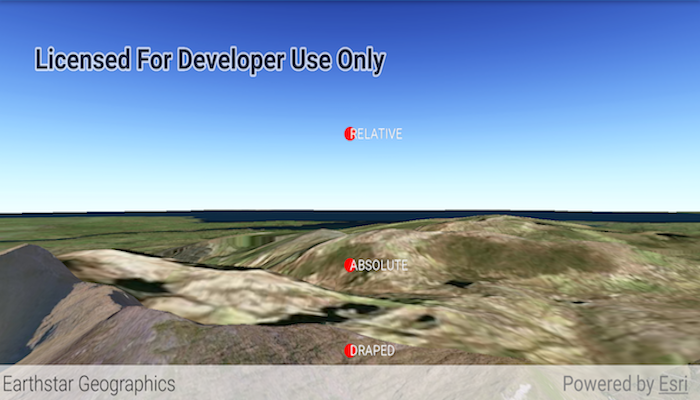
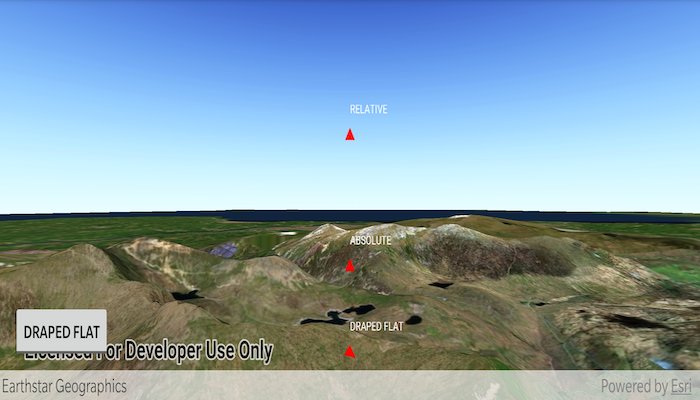
Trev8939/update surface placement (#676)
* upgrade toolkit to 100.6.1

* update sample for new surface placement api

* PR fixes

* fix metadata whitespace

diff --git a/java/surface-placement/src/main/java/com/esri/arcgisruntime/sample/surfaceplacement/MainActivity.java b/java/surface-placement/src/main/java/com/esri/arcgisruntime/sample/surfaceplacement/MainActivity.java
@@ -16,8 +16,11 @@
 
 package com.esri.arcgisruntime.sample.surfaceplacement;
 
+import android.graphics.Color;
 import android.os.Bundle;
+import android.widget.ToggleButton;
 import androidx.appcompat.app.AppCompatActivity;
+
 import com.esri.arcgisruntime.geometry.Point;
 import com.esri.arcgisruntime.mapping.ArcGISScene;
 import com.esri.arcgisruntime.mapping.ArcGISTiledElevationSource;
@@ -40,76 +43,97 @@ public class MainActivity extends AppCompatActivity {
   protected void onCreate(Bundle savedInstanceState) {
     super.onCreate(savedInstanceState);
     setContentView(R.layout.activity_main);
-    // create SceneView from layout
-    mSceneView = (SceneView) findViewById(R.id.sceneView);
+
+    // create scene view from layout
+    mSceneView = findViewById(R.id.sceneView);
     // create a scene and add a basemap to it
-    ArcGISScene agsScene = new ArcGISScene();
-    agsScene.setBasemap(Basemap.createImagery());
-    mSceneView.setScene(agsScene);
+    ArcGISScene scene = new ArcGISScene();
+    scene.setBasemap(Basemap.createImagery());
+    mSceneView.setScene(scene);
 
     // add base surface for elevation data
     ArcGISTiledElevationSource elevationSource = new ArcGISTiledElevationSource(
-        getResources().getString(R.string.elevation_image_service));
-    agsScene.getBaseSurface().getElevationSources().add(elevationSource);
+        getString(R.string.elevation_image_service));
+    scene.getBaseSurface().getElevationSources().add(elevationSource);
 
     // add a camera and initial camera position
-    Camera camera = new Camera(53.04, -4.04, 1300, 0, 90.0, 0);
+    Camera camera = new Camera(53.05, -4.01, 1115, 299, 88, 0);
     mSceneView.setViewpointCamera(camera);
-
-    // create overlays with elevation modes
-    GraphicsOverlay drapedOverlay = new GraphicsOverlay();
-    drapedOverlay.getSceneProperties().setSurfacePlacement(SurfacePlacement.DRAPED);
-    mSceneView.getGraphicsOverlays().add(drapedOverlay);
-    GraphicsOverlay relativeOverlay = new GraphicsOverlay();
-    relativeOverlay.getSceneProperties().setSurfacePlacement(SurfacePlacement.RELATIVE);
-    mSceneView.getGraphicsOverlays().add(relativeOverlay);
-    GraphicsOverlay absoluteOverlay = new GraphicsOverlay();
-    absoluteOverlay.getSceneProperties().setSurfacePlacement(SurfacePlacement.ABSOLUTE);
-    mSceneView.getGraphicsOverlays().add(absoluteOverlay);
 
     // create point for graphic location
     Point point = new Point(-4.04, 53.06, 1000, camera.getLocation().getSpatialReference());
 
-    // create a red (0xFFFF0000) circle symbol
-    SimpleMarkerSymbol circleSymbol = new SimpleMarkerSymbol(SimpleMarkerSymbol.Style.CIRCLE, 0xFFFF0000, 10);
+    // create a red triangle symbol
+    SimpleMarkerSymbol triangleSymbol = new SimpleMarkerSymbol(SimpleMarkerSymbol.Style.TRIANGLE, Color.RED, 10);
 
-    // create a text symbol for each elevation mode
-    TextSymbol drapedText = new TextSymbol(10, "DRAPED", 0xFFFFFFFF, HorizontalAlignment.LEFT,
+    // create the draped flat overlay
+    GraphicsOverlay drapedFlatOverlay = new GraphicsOverlay();
+    drapedFlatOverlay.getSceneProperties().setSurfacePlacement(SurfacePlacement.DRAPED_FLAT);
+    drapedFlatOverlay.getGraphics().add(new Graphic(point, triangleSymbol));
+    // create a text symbol for elevation mode
+    TextSymbol drapedFlatText = new TextSymbol(10, "DRAPED FLAT", Color.WHITE, HorizontalAlignment.LEFT,
         VerticalAlignment.MIDDLE);
-    TextSymbol relativeText = new TextSymbol(10, "RELATIVE", 0xFFFFFFFF, HorizontalAlignment.LEFT,
-        VerticalAlignment.MIDDLE);
-    TextSymbol absoluteText = new TextSymbol(10, "ABSOLUTE", 0xFFFFFFFF, HorizontalAlignment.LEFT,
-        VerticalAlignment.MIDDLE);
+    drapedFlatText.setOffsetY(20);
+    drapedFlatOverlay.getGraphics().add(new Graphic(point, drapedFlatText));
+    mSceneView.getGraphicsOverlays().add(drapedFlatOverlay);
 
-    // add the point graphic and text graphic to the corresponding graphics
-    // overlay
-    drapedOverlay.getGraphics().add(new Graphic(point, circleSymbol));
-    drapedOverlay.getGraphics().add(new Graphic(point, drapedText));
+    // create the draped billboarded overlay
+    GraphicsOverlay drapedBillboardedOverlay = new GraphicsOverlay();
+    drapedBillboardedOverlay.getSceneProperties().setSurfacePlacement(SurfacePlacement.DRAPED_BILLBOARDED);
+    drapedBillboardedOverlay.getGraphics().add(new Graphic(point, triangleSymbol));
+    // create a text symbol for elevation mode
+    TextSymbol drapedBillboardedText = new TextSymbol(10, "DRAPED BILLBOARDED", Color.WHITE, HorizontalAlignment.LEFT,
+        VerticalAlignment.MIDDLE);
+    drapedBillboardedText.setOffsetY(20);
+    drapedBillboardedOverlay.getGraphics().add(new Graphic(point, drapedBillboardedText));
+    mSceneView.getGraphicsOverlays().add(drapedBillboardedOverlay);
+    drapedBillboardedOverlay.setVisible(false);
 
-    relativeOverlay.getGraphics().add(new Graphic(point, circleSymbol));
+    // create the relative overlay
+    GraphicsOverlay relativeOverlay = new GraphicsOverlay();
+    relativeOverlay.getSceneProperties().setSurfacePlacement(SurfacePlacement.RELATIVE);
+    relativeOverlay.getGraphics().add(new Graphic(point, triangleSymbol));
+    // create a text symbol for elevation mode
+    TextSymbol relativeText = new TextSymbol(10, "RELATIVE", Color.WHITE, HorizontalAlignment.LEFT,
+        VerticalAlignment.MIDDLE);
+    relativeText.setOffsetY(20);
     relativeOverlay.getGraphics().add(new Graphic(point, relativeText));
+    mSceneView.getGraphicsOverlays().add(relativeOverlay);
 
-    absoluteOverlay.getGraphics().add(new Graphic(point, circleSymbol));
+    // create the absolute overlay
+    GraphicsOverlay absoluteOverlay = new GraphicsOverlay();
+    absoluteOverlay.getSceneProperties().setSurfacePlacement(SurfacePlacement.ABSOLUTE);
+    absoluteOverlay.getGraphics().add(new Graphic(point, triangleSymbol));
+    // create a text symbol for elevation mode
+    TextSymbol absoluteText = new TextSymbol(10, "ABSOLUTE", Color.WHITE, HorizontalAlignment.LEFT,
+        VerticalAlignment.MIDDLE);
+    absoluteText.setOffsetY(20);
     absoluteOverlay.getGraphics().add(new Graphic(point, absoluteText));
+    mSceneView.getGraphicsOverlays().add(absoluteOverlay);
+
+    // toggle visibility of the draped and billboarded graphics overlays
+    ToggleButton drapedToggle = findViewById(R.id.drapedToggle);
+    drapedToggle.setOnClickListener(v -> {
+      drapedBillboardedOverlay.setVisible(drapedToggle.isChecked());
+      drapedFlatOverlay.setVisible(!drapedToggle.isChecked());
+    });
   }
 
   @Override
   protected void onPause() {
-    super.onPause();
-    // pause SceneView
     mSceneView.pause();
+    super.onPause();
   }
 
   @Override
   protected void onResume() {
     super.onResume();
-    // resume SceneView
     mSceneView.resume();
   }
 
   @Override
   protected void onDestroy() {
-    super.onDestroy();
     mSceneView.dispose();
+    super.onDestroy();
   }
 }

diff --git a/java/surface-placement/README.md b/java/surface-placement/README.md
@@ -1,29 +1,52 @@
-# Surface Placement
-Position graphics above a surface using different Surface Placements.
+# Surface placement
 
-![Elevation Mode App](surface-placement.png)
+Position graphics relative to a surface using different surface placement modes.
+
+![Surface placement app](surface-placement.png)
+
+## Use case
+
+Depending on the use case, data might be displayed at a consistent, absolute height (e.g. flight data recorded relative to sea level), at a relative height to the terrain (e.g. transmission lines positioned relative to the ground), or draped directly onto the terrain (e.g. location markers, area boundaries).
 
 ## How to use the sample
-Simply run the app.
+
+The application loads a scene showing three points that use the individual surface placement rules (Absolute, Relative, and either Draped Billboarded or Draped Flat). Use the toggle to change the draped mode, then explore the scene by zooming in/out and by panning around to observe the effects of the surface placement rules.
 
 ## How it works
-1. Create a GraphicsOverlay.
-2. Set the surface placement mode `GraphicsOverlay.getSceneProperties().setSurfacePlacement(...)`
-	- `DRAPED`, Z value of graphic has no affect and graphic is attached to surface
-	- `RELATIVE`, position graphic using it's Z value plus the elevation of the surface
-	- `ABSOLUTE`, position graphic using only it's Z value
-3. Add graphics to the graphics overlay, GraphicsOverlay.getGraphics.add(Graphic).
-4. Add the graphics overlay to the SceneView, SceneView.getGraphicsOverlays().add(GraphicsOverlay).
+
+1. Create a `GraphicsOverlay` for each placement mode, setting `LayerSceneProperties.setSurfacePlacement(...)`:
+    * `ABSOLUTE`, position graphic using only its Z value.
+    * `RELATIVE`, position graphic using its Z value plus the elevation of the surface.
+    * `DRAPED_BILLBOARDED`, position graphic upright on the surface and always facing the camera, not using its z value.
+    * `DRAPED_FLAT`, position graphic flat on the surface, not using its z value.
+2. Add graphics to the graphics overlay, `GraphicsOverlay.getGraphics().add(graphic)`.
+3. Add each graphics overlay to the scene view by calling `SceneView.getGraphicsOverlays().add(overlay)`.
 
 ## Relevant API
-* ArcGISScene
-* Camera
+
 * Graphic
 * GraphicsOverlay
 * LayerSceneProperties.SurfacePlacement
 * SceneProperties
-* SceneView
 * Surface
 
-#### Tags
+## About the data
+
+The scene launches with a view of northern Snowdonia National Park. Three points are shown hovering with positions defined by each of the different surface placement modes.
+
+## Additional information
+
+This sample uses an elevation service to add elevation/terrain to the scene. Graphics are positioned relative to that surface for the `DRAPED_BILLBOARDED`, `DRAPED_FLAT`, `ABSOLUTE` and `RELATIVE` surface placement modes. 
+
+## Tags
 Maps and Scenes
+3D
+absolute
+altitude
+draped
+elevation
+floating
+relative
+scenes
+sea level
+surface placement
